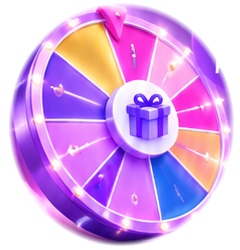
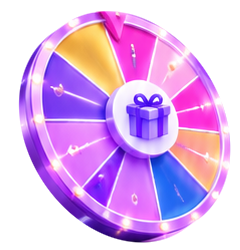
Musteri ana sayfa: cark parcalara kesildi, dilimler egik yuzde yavasca donuyor (30 sn), cerceve isiklari yanip sonuyor; sus animasyonlari tek saat 20 kare/sn, sayfa gorunmezken durur

diff --git a/lib/musteripaneli/anasayfa/donen_cark.dart b/lib/musteripaneli/anasayfa/donen_cark.dart
@@ -1,0 +1,199 @@
+import 'dart:math' as math;
+
+import 'package:flutter/material.dart';
+
+import 'package:randevu_sistem/musteripaneli/anasayfa/yavas_dongu.dart';
+
+/// Ana sayfa çark kartındaki 3B çark: gövde, göbek ve ok tasarımdan kesilmiş görseldir (240x250),
+/// dilimler çarkın eğik yüzüne oturan elips içinde yavaşça döner, çerçeve ışıkları yanıp söner.
+class DonenCark extends StatefulWidget {
+  /// Gövdenin rengini temaya çevirir; dilimler canlı kalır
+  final ColorFilter filtre;
+  const DonenCark({super.key, required this.filtre});
+
+  @override
+  State<DonenCark> createState() => _DonenCarkState();
+}
+
+class _DonenCarkState extends State<DonenCark> with YavasDongu {
+  @override
+  Duration get donguSuresi => const Duration(seconds: 30);
+
+  @override
+  Widget build(BuildContext context) {
+    Widget gorsel(String ad) => Positioned.fill(
+          child: ColorFiltered(colorFilter: widget.filtre, child: Image.asset('images/$ad.png', fit: BoxFit.fill)),
+        );
+    return RepaintBoundary(
+      child: AspectRatio(
+        aspectRatio: 240 / 250,
+        child: Stack(children: [
+          gorsel('musteri_cark3d'),
+          Positioned.fill(child: CustomPaint(painter: _DilimBoyaci(dongu))),
+          gorsel('musteri_cark_gobek'),
+          gorsel('musteri_cark_ok'),
+          Positioned.fill(child: CustomPaint(painter: _IsikBoyaci(dongu))),
+        ]),
+      ),
+    );
+  }
+}
+
+class _DilimBoyaci extends CustomPainter {
+  final ValueNotifier<double> t;
+  _DilimBoyaci(this.t) : super(repaint: t);
+
+  // Yüz elipsi (240x250 görsel koordinatı): birim çember -> elips simetrik matrisi
+  static const _mx = 130.84, _my = 121.54;
+  static const _a = 88.24, _b = 11.37, _d = 99.13;
+  // Göbek perspektif yüzünden yüz merkezinin sağındadır; dilimler oradan açılır
+  static const _gx = 182.4 - 40 - _mx, _gy = 707.4 - 588 - _my;
+
+  static const _renkler = [
+    Color(0xFFF6B443),
+    Color(0xFFFF2CCB),
+    Color(0xFFFF9FE0),
+    Color(0xFF8B1FF6),
+    Color(0xFFFFAE5C),
+    Color(0xFF2468F2),
+    Color(0xFFDE74FA),
+    Color(0xFFF91FC4),
+    Color(0xFFF6B443),
+    Color(0xFF6A43F0),
+    Color(0xFFE99BFC),
+    Color(0xFF2468F2),
+  ];
+
+  @override
+  void paint(Canvas canvas, Size s) {
+    canvas.save();
+    canvas.scale(s.width / 240, s.height / 250);
+    canvas.translate(_mx, _my);
+
+    // Göbek merkezi birim çemberde
+    const det = _a * _d - _b * _b;
+    const ux = (_d * _gx - _b * _gy) / det, uy = (_a * _gy - _b * _gx) / det;
+    final k = math.sqrt(ux * ux + uy * uy);
+    final yon = math.atan2(uy, ux);
+    final kok = math.sqrt(1 - k * k);
+    Offset elips(double x, double y) => Offset(_a * x + _b * y, _b * x + _d * y);
+    // Çemberi koruyan izdüşüm: merkez göbeğe kayar, doğrular doğru kalır
+    Offset nokta(double aci, double r) {
+      final x = r * math.cos(aci - yon), y = r * math.sin(aci - yon), p = 1 + k * x;
+      final X = (x + k) / p, Y = y * kok / p;
+      return elips(X * math.cos(yon) - Y * math.sin(yon), X * math.sin(yon) + Y * math.cos(yon));
+    }
+
+    final sinir = Path()..addPolygon([for (var i = 0; i < 96; i++) nokta(i * math.pi / 48, 1)], true);
+    canvas.save();
+    canvas.clipPath(sinir);
+    final don = t.value * 2 * math.pi;
+    final n = _renkler.length, dilim = 2 * math.pi / n;
+    final kutu = sinir.getBounds();
+    final merkez = nokta(0, 0);
+    for (var i = 0; i < n; i++) {
+      final bas = don + i * dilim;
+      final yol = Path()..moveTo(merkez.dx, merkez.dy);
+      for (var j = 0; j <= 8; j++) {
+        final q = nokta(bas + dilim * j / 8, 1.02);
+        yol.lineTo(q.dx, q.dy);
+      }
+      yol.close();
+      final renk = _renkler[i];
+      canvas.drawPath(
+        yol,
+        Paint()
+          ..shader = RadialGradient(
+            center: Alignment(merkez.dx / (kutu.width / 2), merkez.dy / (kutu.height / 2)),
+            radius: 0.62,
+            colors: [Color.lerp(renk, Colors.black, 0.22)!, renk, Color.lerp(renk, Colors.white, 0.10)!],
+            stops: const [0.2, 0.62, 1],
+          ).createShader(kutu),
+      );
+      // Dilim ortasında küçük parıltı
+      final o = nokta(bas + dilim / 2, 0.76);
+      final w = nokta(bas + dilim / 2, 0.83) - o;
+      final yan = Offset(-w.dy, w.dx);
+      canvas.drawPath(
+        Path()
+          ..moveTo(o.dx + w.dx, o.dy + w.dy)
+          ..quadraticBezierTo(o.dx, o.dy, o.dx + yan.dx, o.dy + yan.dy)
+          ..quadraticBezierTo(o.dx, o.dy, o.dx - w.dx, o.dy - w.dy)
+          ..quadraticBezierTo(o.dx, o.dy, o.dx - yan.dx, o.dy - yan.dy)
+          ..quadraticBezierTo(o.dx, o.dy, o.dx + w.dx, o.dy + w.dy)
+          ..close(),
+        Paint()..color = Colors.white.withValues(alpha: 0.85),
+      );
+    }
+    final cizgi = Paint()
+      ..color = Colors.white.withValues(alpha: 0.92)
+      ..strokeWidth = 1.3;
+    for (var i = 0; i < n; i++) {
+      canvas.drawLine(merkez, nokta(don + i * dilim, 1.02), cizgi);
+    }
+    // Sabit cam parlaması (dönmez; derinlik hissi)
+    canvas.drawRect(
+      kutu,
+      Paint()
+        ..shader = LinearGradient(
+          begin: Alignment.topLeft,
+          end: Alignment.bottomRight,
+          colors: [Colors.white.withValues(alpha: 0.22), Colors.white.withValues(alpha: 0), Colors.black.withValues(alpha: 0.12)],
+          stops: const [0, 0.45, 1],
+        ).createShader(kutu),
+    );
+    canvas.restore();
+    canvas.drawPath(
+        sinir,
+        Paint()
+          ..style = PaintingStyle.stroke
+          ..strokeWidth = 1.8
+          ..color = Colors.white.withValues(alpha: 0.95));
+    canvas.restore();
+  }
+
+  @override
+  bool shouldRepaint(covariant _DilimBoyaci e) => false;
+}
+
+/// Çerçevedeki ampuller: sırayla hafifçe parlar
+class _IsikBoyaci extends CustomPainter {
+  final ValueNotifier<double> t;
+  _IsikBoyaci(this.t) : super(repaint: t);
+
+  // Tasarımdaki ampul yerleri (240x250 görsel koordinatı)
+  static const _ampuller = [
+    (73.0, 22.5), (49.0, 45.5), (37.3, 78.3), (38.5, 118.8), (55.3, 163.8), (78.5, 191.3), (126.0, 222.5), //
+    (164.8, 226.3), (194.8, 216.3), (215.5, 195.0), (226.0, 165.0), (226.5, 130.0), (219.3, 100.5), (186.8, 50.8), (162.3, 32.5),
+  ];
+
+  @override
+  void paint(Canvas canvas, Size s) {
+    canvas.save();
+    canvas.scale(s.width / 240, s.height / 250);
+    for (var i = 0; i < _ampuller.length; i++) {
+      final (x, y) = _ampuller[i];
+      // Tam tur sayısı tam sayı: döngü dikişsiz
+      final g = 0.5 + 0.5 * math.sin(t.value * 2 * math.pi * 12 + i * math.pi);
+      final m = Offset(x, y);
+      canvas.drawCircle(
+        m,
+        9,
+        Paint()
+          ..shader = RadialGradient(colors: [
+            Colors.white.withValues(alpha: 0.85 * g),
+            const Color(0xFFFFF1C9).withValues(alpha: 0.45 * g),
+            const Color(0x00FFF1C9),
+          ], stops: const [
+            0,
+            0.35,
+            1
+          ]).createShader(Rect.fromCircle(center: m, radius: 9)),
+      );
+    }
+    canvas.restore();
+  }
+
+  @override
+  bool shouldRepaint(covariant _IsikBoyaci e) => false;
+}

diff --git a/lib/musteripaneli/anasayfa/marka_isik_efekti.dart b/lib/musteripaneli/anasayfa/marka_isik_efekti.dart
@@ -2,6 +2,7 @@ import 'dart:math' as math;
 
 import 'package:flutter/material.dart';
 
+import 'package:randevu_sistem/musteripaneli/anasayfa/yavas_dongu.dart';
 import 'package:randevu_sistem/marka.dart';
 import 'package:randevu_sistem/theme/musteri_palet.dart';
 
@@ -17,25 +18,9 @@ class MarkaIsikEfekti extends StatefulWidget {
   State<MarkaIsikEfekti> createState() => _MarkaIsikEfektiState();
 }
 
-class _MarkaIsikEfektiState extends State<MarkaIsikEfekti> with SingleTickerProviderStateMixin {
-  late final AnimationController _c = AnimationController(vsync: this, duration: const Duration(seconds: 18));
-
+class _MarkaIsikEfektiState extends State<MarkaIsikEfekti> with YavasDongu {
   @override
-  void didChangeDependencies() {
-    super.didChangeDependencies();
-    // Sistemde animasyonlar kapalıysa sabit kalır
-    if (MediaQuery.of(context).disableAnimations) {
-      _c.stop();
-    } else if (!_c.isAnimating) {
-      _c.repeat();
-    }
-  }
-
-  @override
-  void dispose() {
-    _c.dispose();
-    super.dispose();
-  }
+  Duration get donguSuresi => const Duration(seconds: 18);
 
   @override
   Widget build(BuildContext context) {
@@ -43,7 +28,7 @@ class _MarkaIsikEfektiState extends State<MarkaIsikEfekti> with SingleTickerProv
     final r = widget.yaricap;
     return RepaintBoundary(
       child: Stack(children: [
-        Positioned.fill(child: CustomPaint(painter: _IsikBoyaci(_c, p, widget.merkez, r))),
+        Positioned.fill(child: CustomPaint(painter: _IsikBoyaci(dongu, p, widget.merkez, r))),
         Positioned(
           left: widget.merkez.dx - r * 0.62,
           top: widget.merkez.dy - r * 0.62,
@@ -65,7 +50,7 @@ class _MarkaIsikEfektiState extends State<MarkaIsikEfekti> with SingleTickerProv
 }
 
 class _IsikBoyaci extends CustomPainter {
-  final Animation<double> t;
+  final ValueNotifier<double> t;
   final MusteriPalet p;
   final Offset m;
   final double r;

diff --git a/lib/musteripaneli/anasayfa/yavas_dongu.dart b/lib/musteripaneli/anasayfa/yavas_dongu.dart
@@ -1,0 +1,53 @@
+import 'dart:async';
+
+import 'package:flutter/material.dart';
+
+/// Süs animasyonları için 0..1 arası yavaş döngü. Tüm animasyonlar TEK saati paylaşır (20 kare/sn),
+/// böylece ekran her adımda bir kez çizilir (pil dostu). Sayfa üstte değilken, uygulama arka
+/// plandayken ya da sistemde animasyonlar kapalıyken durur.
+mixin YavasDongu<T extends StatefulWidget> on State<T> {
+  static const _adimMs = 50;
+  static final Set<YavasDongu> _kayitli = {};
+  static Timer? _saat;
+
+  final ValueNotifier<double> dongu = ValueNotifier<double>(0);
+  ModalRoute<dynamic>? _rota;
+
+  Duration get donguSuresi;
+
+  static void _vur(Timer _) {
+    final b = WidgetsBinding.instance;
+    final durum = b.lifecycleState;
+    if (durum != null && durum != AppLifecycleState.resumed) return;
+    if (b.platformDispatcher.accessibilityFeatures.disableAnimations) return;
+    for (final d in _kayitli) {
+      if (d.mounted && (d._rota?.isCurrent ?? true)) {
+        d.dongu.value = (d.dongu.value + _adimMs / d.donguSuresi.inMilliseconds) % 1.0;
+      }
+    }
+  }
+
+  @override
+  void initState() {
+    super.initState();
+    _kayitli.add(this);
+    _saat ??= Timer.periodic(const Duration(milliseconds: _adimMs), _vur);
+  }
+
+  @override
+  void didChangeDependencies() {
+    super.didChangeDependencies();
+    _rota = ModalRoute.of(context);
+  }
+
+  @override
+  void dispose() {
+    _kayitli.remove(this);
+    if (_kayitli.isEmpty) {
+      _saat?.cancel();
+      _saat = null;
+    }
+    dongu.dispose();
+    super.dispose();
+  }
+}

diff --git a/lib/musteripaneli/anasayfa/anasayfa_tasarim.dart b/lib/musteripaneli/anasayfa/anasayfa_tasarim.dart
@@ -387,8 +387,7 @@ extension _AnasayfaTasarim on _MusteriAnsayfaState {
                   top: _x(30),
                   width: _x(240),
                   height: _x(250),
-                  child: ColorFiltered(
-                      colorFilter: _p.gorselFiltre, child: Image.asset('images/musteri_cark3d.png', fit: BoxFit.contain)),
+                  child: DonenCark(filtre: _p.gorselFiltre),
                 ),
                 Positioned(
                   right: _x(24),

diff --git a/lib/musteripaneli/anasayfa/anasayfa.dart b/lib/musteripaneli/anasayfa/anasayfa.dart
@@ -34,6 +34,7 @@ import 'package:randevu_sistem/randevualma/randevual.dart';
 import 'package:randevu_sistem/theme/app_tokens.dart';
 
 import 'package:randevu_sistem/Models/randevular.dart';
+import 'package:randevu_sistem/musteripaneli/anasayfa/donen_cark.dart';
 import 'package:randevu_sistem/musteripaneli/anasayfa/marka_isik_efekti.dart';
 import 'package:randevu_sistem/theme/musteri_palet.dart';
 import 'package:randevu_sistem/theme/theme_provider.dart';
